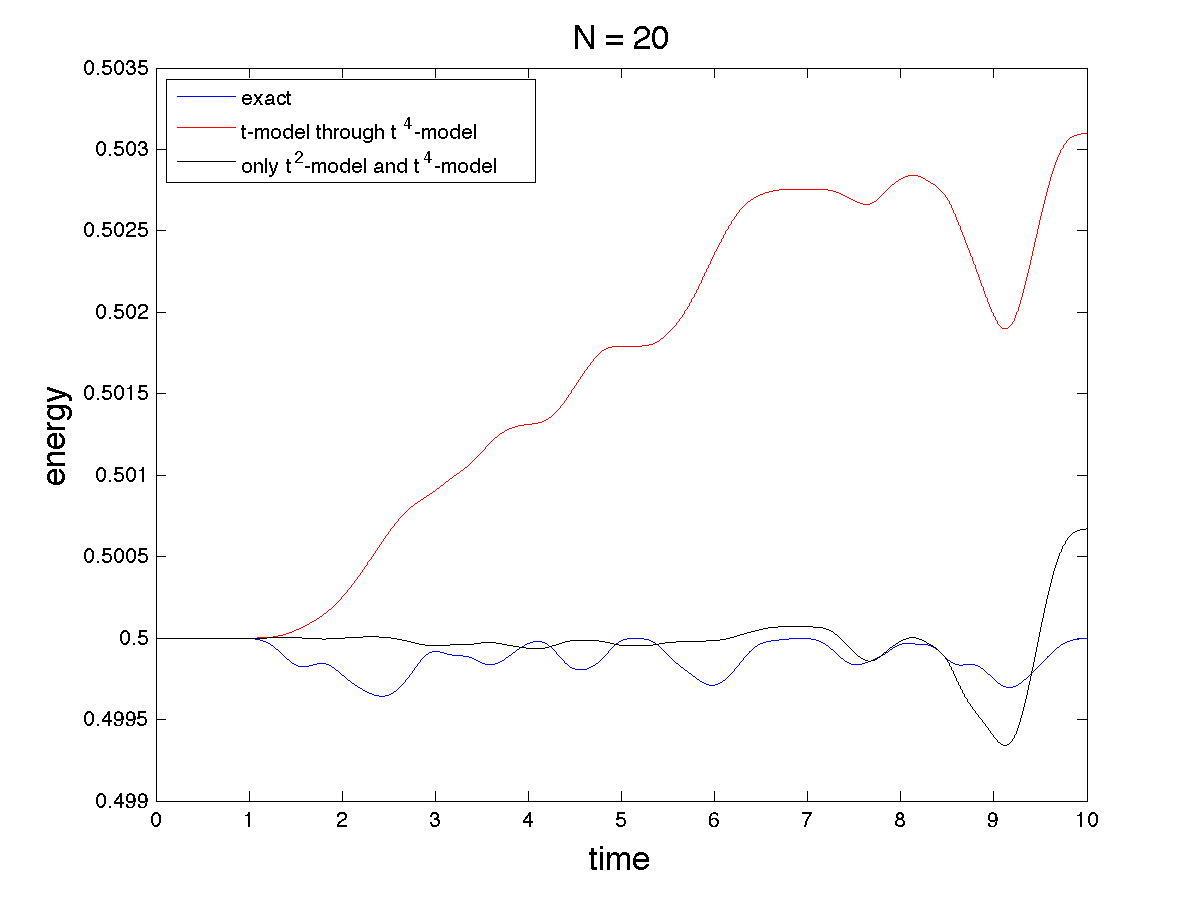
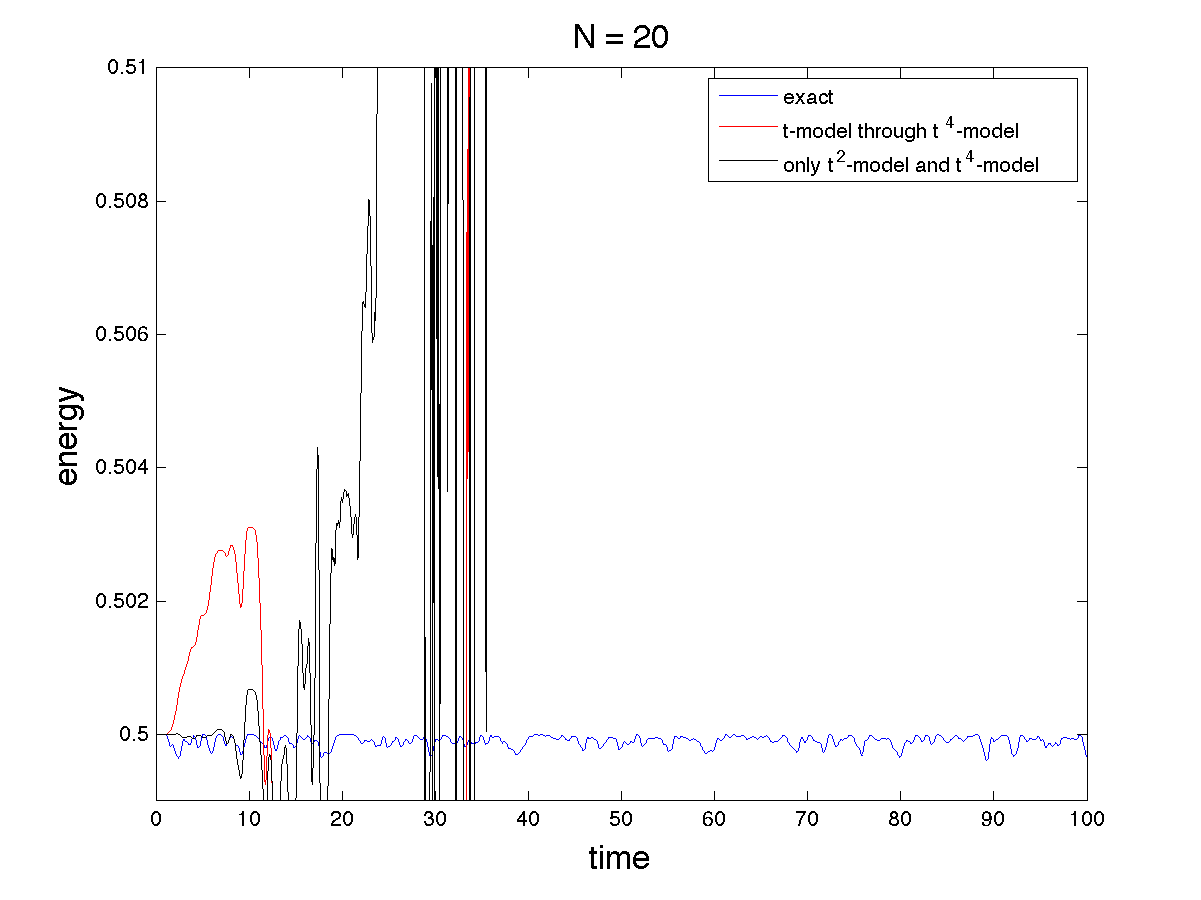
fixed some plotting errors

diff --git a/KdV/Simulations/constant_coeff_test_may11/constant_scaling_law_failure.m b/KdV/Simulations/constant_coeff_test_may11/constant_scaling_law_failure.m
@@ -1,4 +1,9 @@
-clear all;close all;
+%clear all;close all;
+
+
+addpath ../../simulation_functions
+addpath ../../nonlinear
+addpath ../../analysis
 
 N = 20;
 epsilon = 0.1;
@@ -35,7 +40,7 @@ simulation_params.epsilon = epsilon;  %coefficient on linear term in KdV
 simulation_params.alpha = 1;      %coefficient on nonlinear term in KdV
 simulation_params.dt = 1e-3;      %timestep
 simulation_params.endtime = 100;   %end of simulation
-simulation_params.howoften = 1;   %how often to save state vector
+simulation_params.howoften = 10;   %how often to save state vector
 simulation_params.blowup = 1;     %if 1, instabilities cause simulation to end, but not give error
 simulation_params.tol = inf;    %tolerance for identifying instabilities
 simulation_params.N = 256;          %number of positive modes to simulate
@@ -51,7 +56,7 @@ simulation_params.epsilon = epsilon;  %coefficient on linear term in KdV
 simulation_params.alpha = 1;      %coefficient on nonlinear term in KdV
 simulation_params.dt = 1e-3;      %timestep
 simulation_params.endtime = 100;   %end of simulation
-simulation_params.howoften = 1;   %how often to save state vector
+simulation_params.howoften = 10;   %how often to save state vector
 simulation_params.blowup = 1;     %if 1, instabilities cause simulation to end, but not give error
 simulation_params.tol = inf;    %tolerance for identifying instabilities
 simulation_params.initial_condition = @(x) sin(x);
@@ -74,14 +79,34 @@ exact = get_energy(u_list,N);
 all4 = get_energy(u_all,N);
 just24 = get_energy(u_24,N);
 
-figure
-
+figure(1)
+hold off
 plot(t_list,exact,'b')
 hold on
 plot(t_all,all4,'r')
 plot(t_24,just24,'k')
 title('N = 20','fontsize',16)
-legend('exact','t-model through t^4-model','only t^2-model and t^4-model','location','northwest')
+legend('exact','t-model through t^4-model','only t^2-model and t^4-model','location','northeast')
 xlabel('time','fontsize',16)
 ylabel('energy','fontsize',16)
+axis([0,100,0.499,0.51])
 saveas(gcf,'constant_coeff_energy','png')
+
+
+
+[x,u_real] = make_real_space(u_list(1:N,:),N);
+[~,u_all_real] = make_real_space(u_all,N);
+[~,u_24_real] = make_real_space(u_24,N);
+
+err_all = sum((u_real(:,1:length(t_all))-u_all_real).^2,1)./sum(u_real(:,1:length(t_all)).^2,1);
+err_24 = sum((u_24_real-u_real(:,1:length(t_24))).^2,1)./sum(u_real(:,1:length(t_24)).^2,1);
+
+figure(2)
+hold off
+plot(t_all,err_all,'r')
+plot(t_24,err_24,'k')
+legend('t-model through t^4-model','only t^2-model and t^4-model','location','northeast')
+xlabel('time','fontsize',16)
+ylabel('relative error','fontsize',16)
+title('N = 20','fontsize',16)
+

diff --git a/Burgers/Figures/dissertation_images.m b/Burgers/Figures/dissertation_images.m
@@ -97,7 +97,7 @@ for i = 1:4
     plot(tc2B,errc2B,'k','linewidth',1.5)
     plot(tc3B,errc3B,'c','linewidth',1.5)
     plot(tc4B,errc4B,'m','linewidth',1.5)
-    axis([0,endtime,0,0.0001])
+    axis([0,endtime,0,3])
     legend(leg{2:5},'location','northeast')
     
     title(sprintf('N = %i',N),'fontsize',16)
